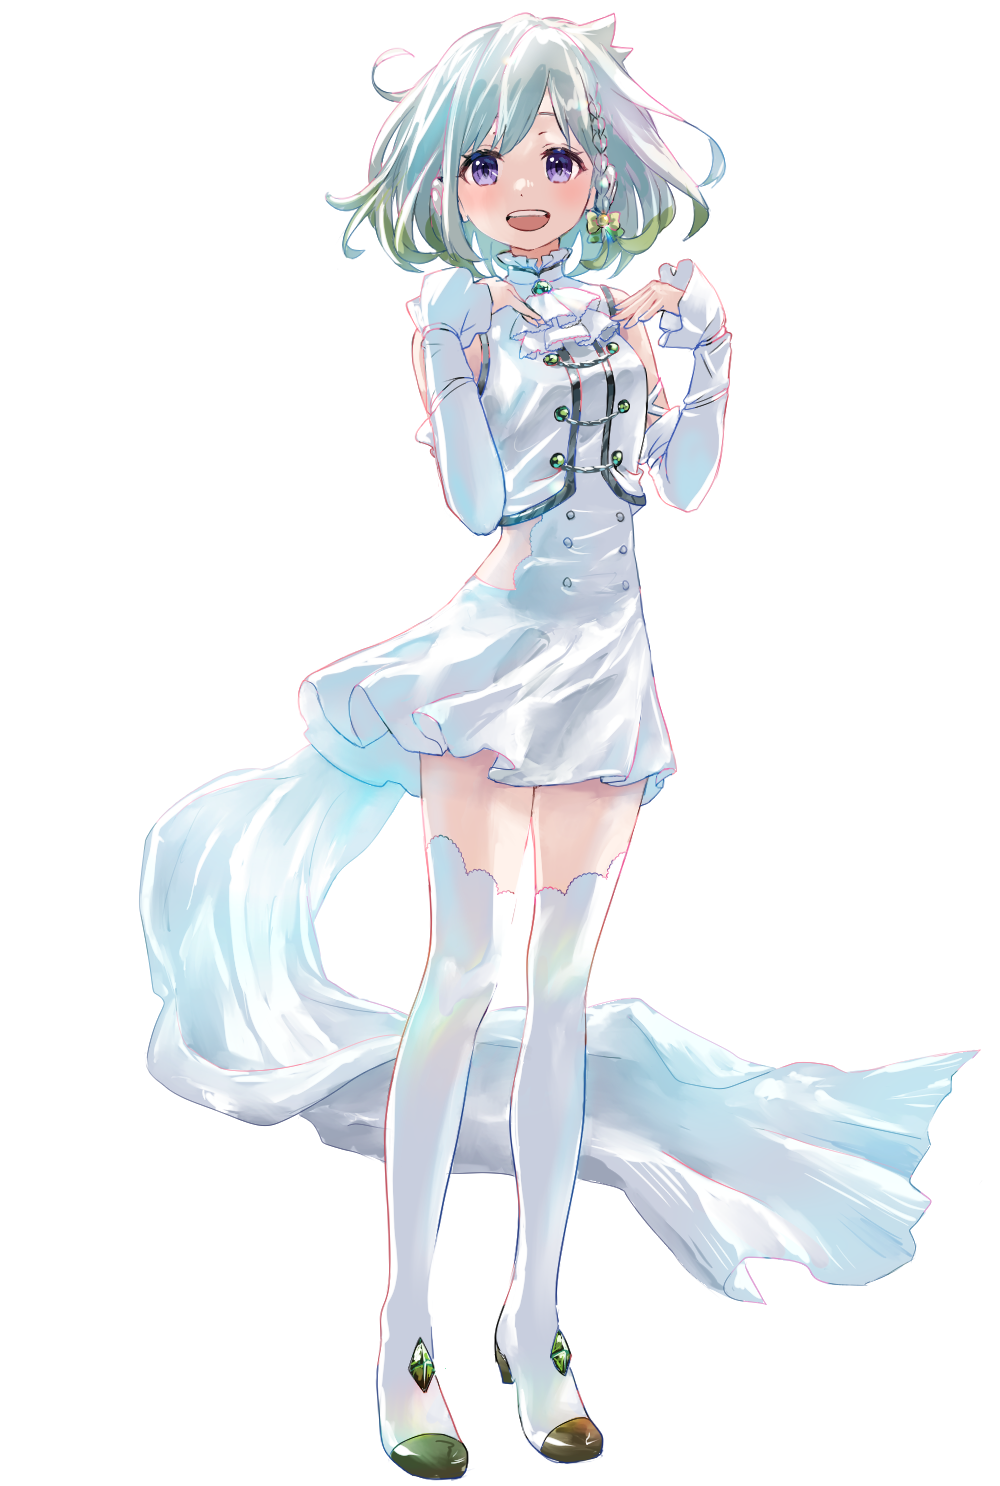
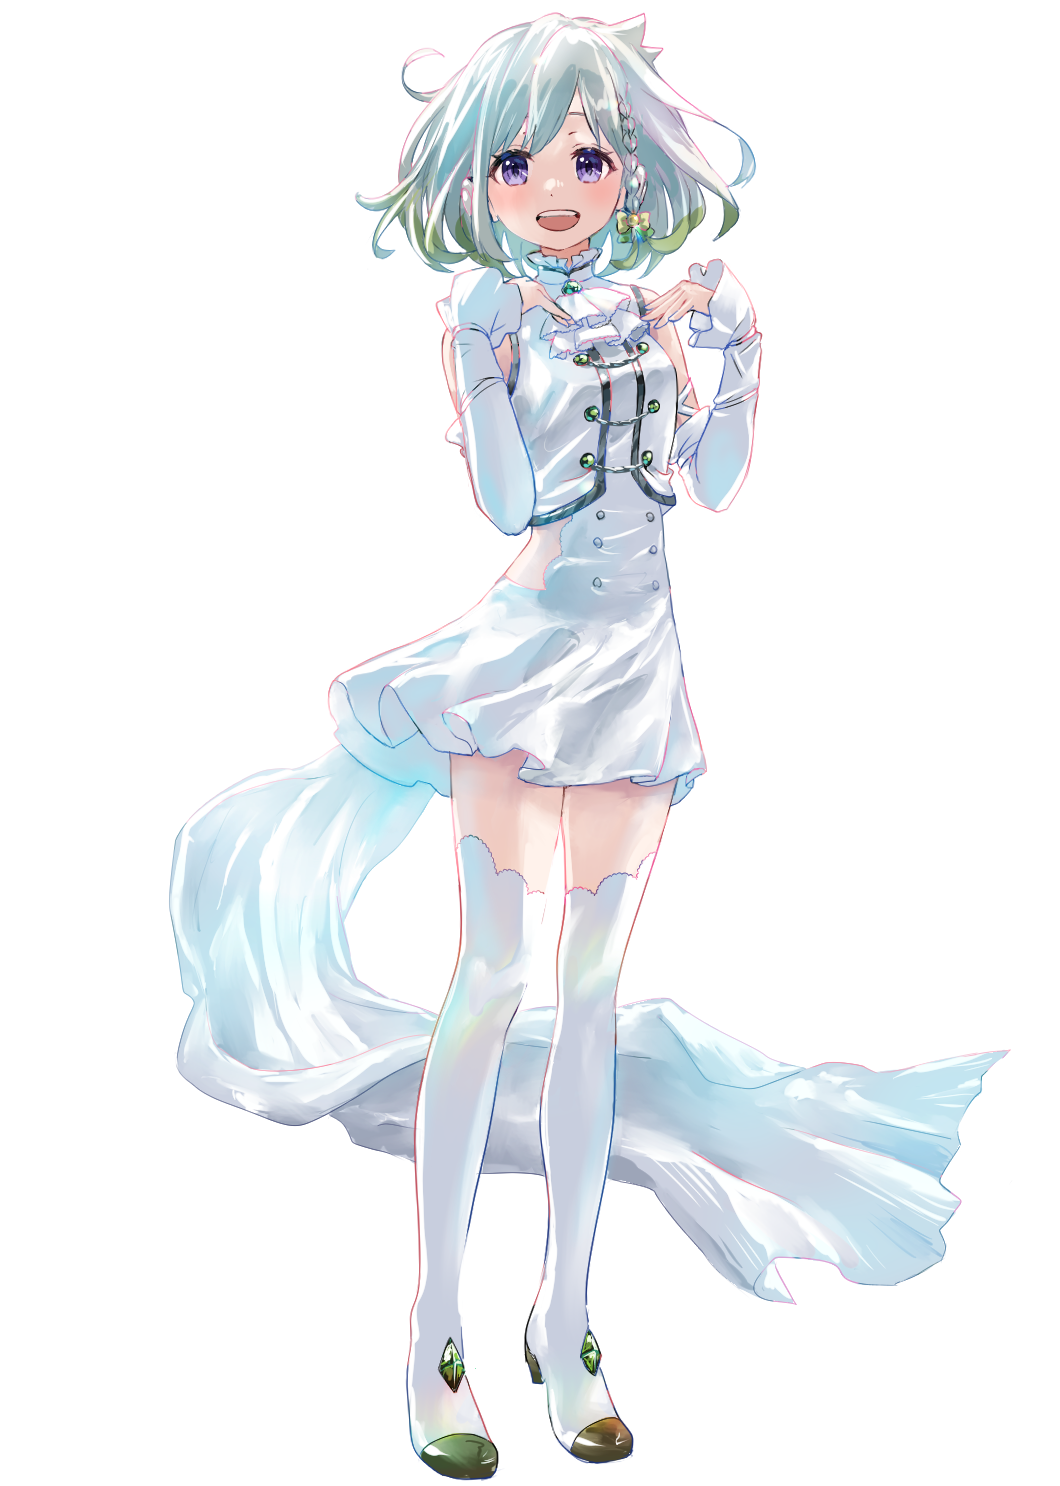
origin画像サイズ調整

diff --git a/index.html b/index.html
@@ -102,7 +102,7 @@
         <div id="profileContainer">
           <div id="slideContainer">
             <div class="slide">
-              <div><img src="img/origin.png" alt="origin"></div>
+              <div><img src="img/origin_cut.png" alt="origin"></div>
               <div><img src="img/clear_cut.png" alt="clear"></div>
               <div><img src="img/autumn_cut.png" alt="autumn"></div>
               <div><img src="img/evolve_cut.png" alt="evolve"></div>
